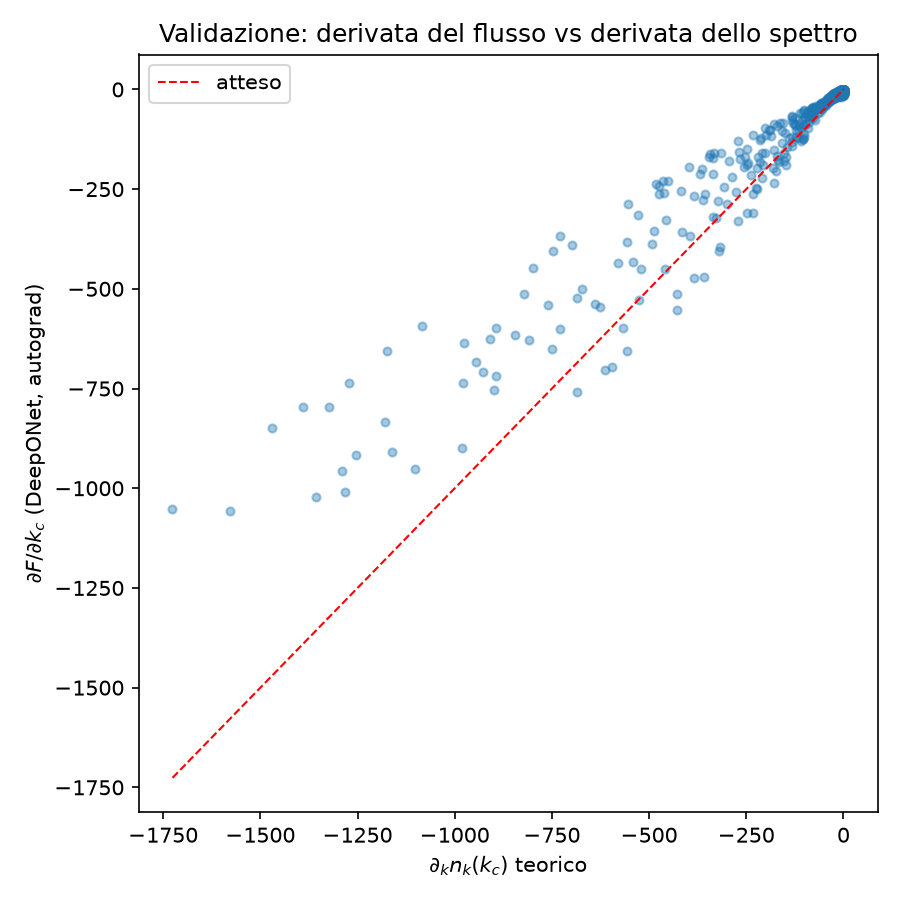
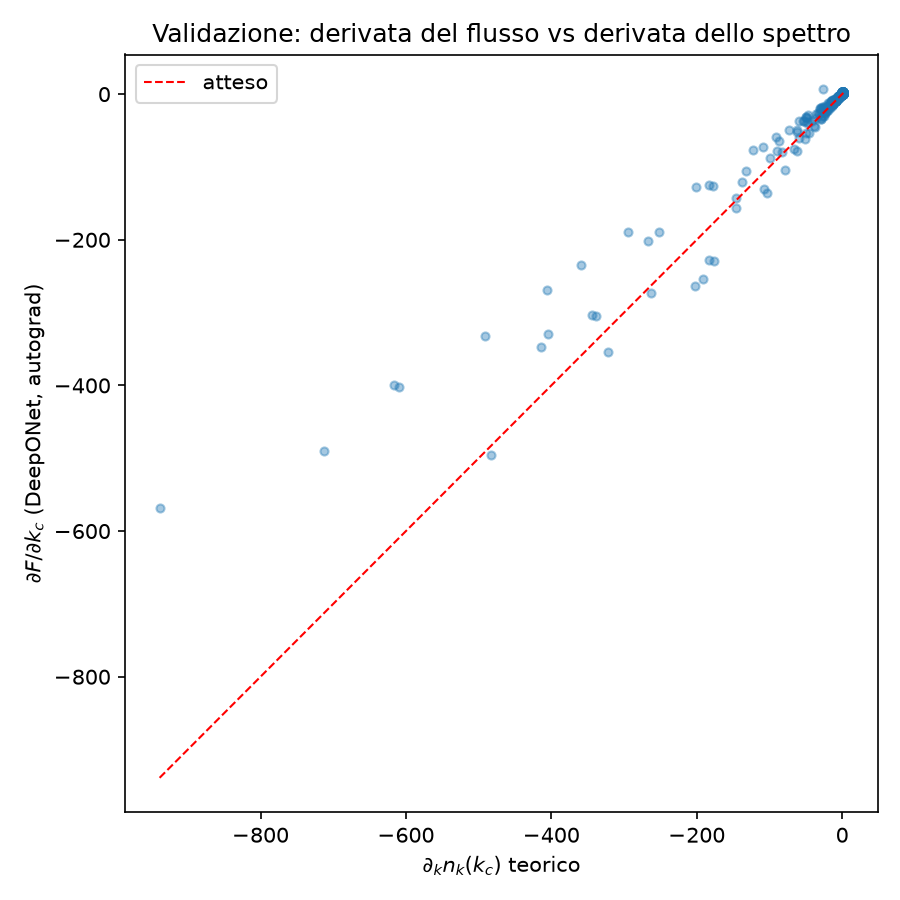
feat: enhance training function with additional parameters and learning rate scheduler, boundary condition loss added

diff --git a/src/training/train_deeponet.py b/src/training/train_deeponet.py
@@ -21,9 +21,10 @@ def split_deeponet_dataset(data, train_frac=0.7, val_frac=0.2, test_frac=0.1, se
 
     return {"train": subset(idx_train), "val": subset(idx_val), "test": subset(idx_test)}
 
-
+"""""
 def train_deeponet(model, splits, epochs=6000, lr=1e-3, device="cpu"):
     optimizer = torch.optim.Adam(model.parameters(), lr=lr, amsgrad=True)
+    scheduler = torch.optim.lr_scheduler.CosineAnnealingLR(optimizer, T_max=epochs)
     loss_fn = torch.nn.MSELoss()
 
     train_data = splits["train"]
@@ -42,6 +43,7 @@ def train_deeponet(model, splits, epochs=6000, lr=1e-3, device="cpu"):
         loss.backward()
         torch.nn.utils.clip_grad_norm_(model.parameters(), max_norm=1.0)
         optimizer.step()
+        scheduler.step()
 
         model.eval()
         with torch.no_grad():
@@ -60,6 +62,63 @@ def train_deeponet(model, splits, epochs=6000, lr=1e-3, device="cpu"):
 
     model.load_state_dict(best_state)
     return model, history
+"""
+
+def train_deeponet(model, splits, epochs=6000, lr=1e-3, device="cpu",
+                    sensor_grid=None, A=1.0, k_c_min=0.2, k_c_max=0.9,
+                    lambda_bc=1.0, n_bc_points=50):
+    optimizer = torch.optim.Adam(model.parameters(), lr=lr, amsgrad=True)
+    scheduler = torch.optim.lr_scheduler.CosineAnnealingLR(optimizer, T_max=epochs)
+    loss_fn = torch.nn.MSELoss()
+
+    train_data = splits["train"]
+    val_data = splits["val"]
+
+    # --- profilo costante (alpha=0), target F=0, per vari k_c ---
+    flat_profile = torch.full((n_bc_points, len(sensor_grid)), A, dtype=torch.float32)
+    k_c_bc = torch.linspace(k_c_min, k_c_max, n_bc_points).reshape(-1, 1)
+    F_bc_target = torch.zeros(n_bc_points, 1)
+
+    history = {"train_loss": [], "val_loss": []}
+    best_val = float("inf")
+    best_state = None
+
+    for epoch in range(epochs):
+        model.train()
+        optimizer.zero_grad()
+
+        F_pred = model(train_data["profiles"], train_data["k_c"])
+        data_loss = loss_fn(F_pred, train_data["F"])
+
+        # vincolo esplicito: F(alpha=0) = 0
+        F_bc_pred = model(flat_profile, k_c_bc)
+        bc_loss = loss_fn(F_bc_pred, F_bc_target)
+
+        loss = data_loss + lambda_bc * bc_loss
+        loss.backward()
+        torch.nn.utils.clip_grad_norm_(model.parameters(), max_norm=1.0)
+        optimizer.step()
+        scheduler.step()
+
+        model.eval()
+        with torch.no_grad():
+            F_val_pred = model(val_data["profiles"], val_data["k_c"])
+            val_loss = loss_fn(F_val_pred, val_data["F"])
+
+        history["train_loss"].append(data_loss.item())
+        history["val_loss"].append(val_loss.item())
+
+        if val_loss.item() < best_val:
+            best_val = val_loss.item()
+            best_state = {k: v.clone() for k, v in model.state_dict().items()}
+
+        if epoch % 400 == 0 or epoch == epochs - 1:
+            print(f"Epoch {epoch:5d} | data_loss: {data_loss.item():.6e} | "
+                  f"bc_loss: {bc_loss.item():.6e} | val_loss: {val_loss.item():.6e}")
+
+    model.load_state_dict(best_state)
+    return model, history
+
 
 
 def plot_deeponet_loss(history, save_path=None, show=True):

diff --git a/main_deeponet.py b/main_deeponet.py
@@ -21,7 +21,13 @@ data = build_deeponet_dataset(
 splits = split_deeponet_dataset(data, train_frac=0.7, val_frac=0.2, test_frac=0.1)
 
 model = DeepONet(n_sensors=N_SENSORS, latent_dim=64, hidden=128)
-model, history = train_deeponet(model, splits, epochs=6000, lr=1e-3)
+
+#model, history = train_deeponet(model, splits, epochs=6000, lr=1e-3)
+model, history = train_deeponet(
+    model, splits, epochs=6000, lr=1e-3,
+    sensor_grid=data["sensor_grid"], A=1.0,
+    k_c_min=0.2, k_c_max=0.9, lambda_bc=1.0
+)
 
 plot_deeponet_loss(history, save_path="outputs/deeponet_loss.png", show=False)
 plot_flux_prediction_test(model, splits["test"], save_path="outputs/deeponet_test.png", show=False)
